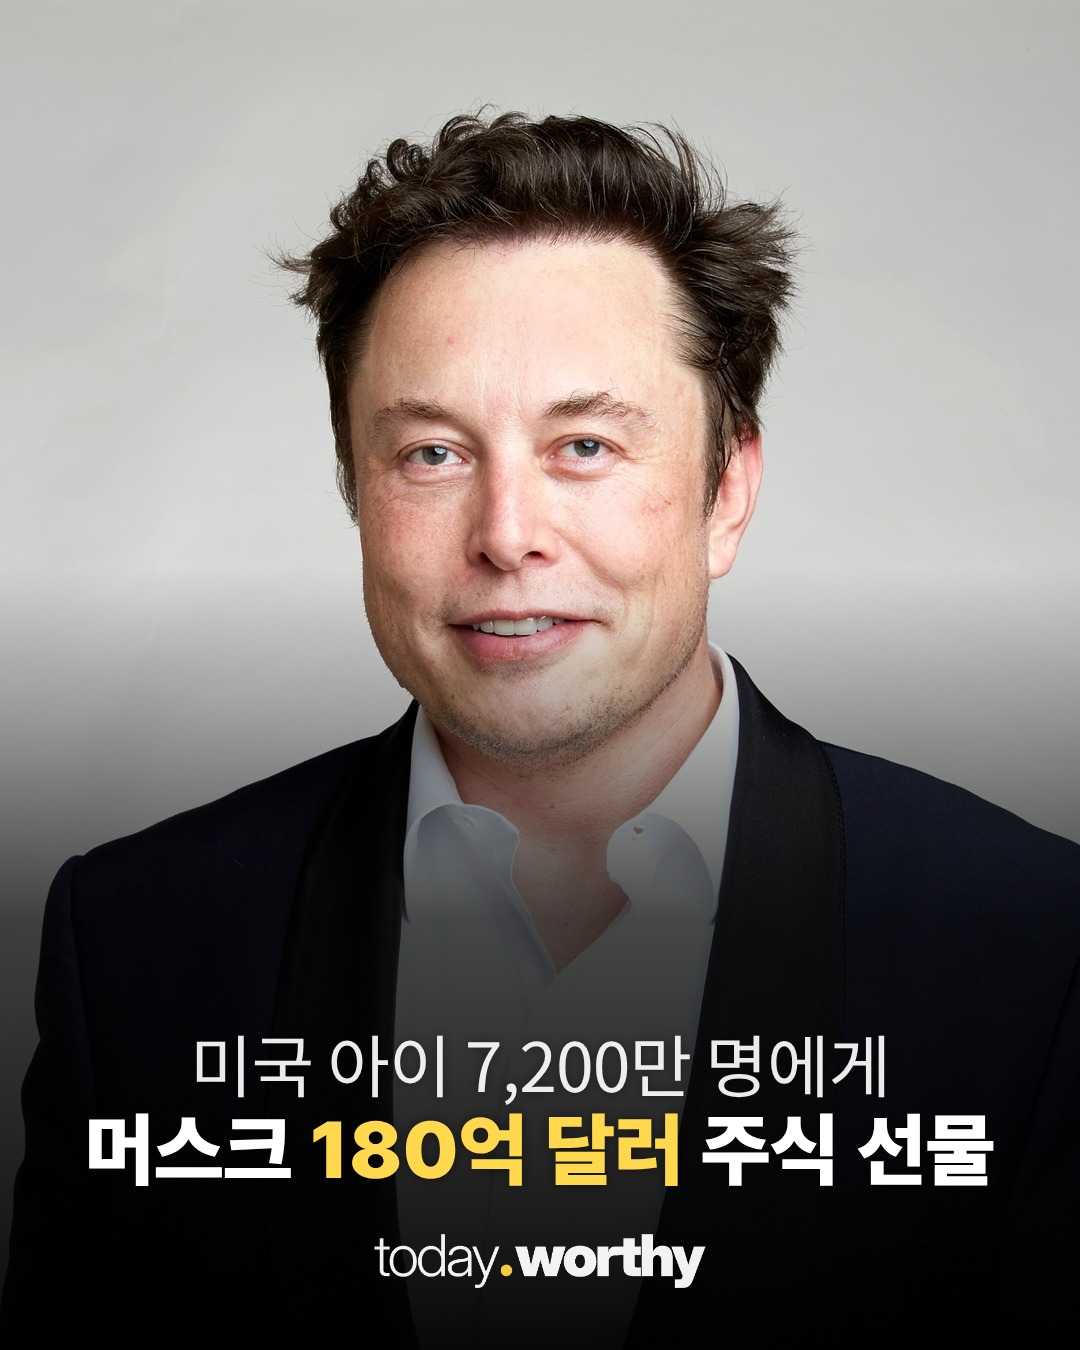
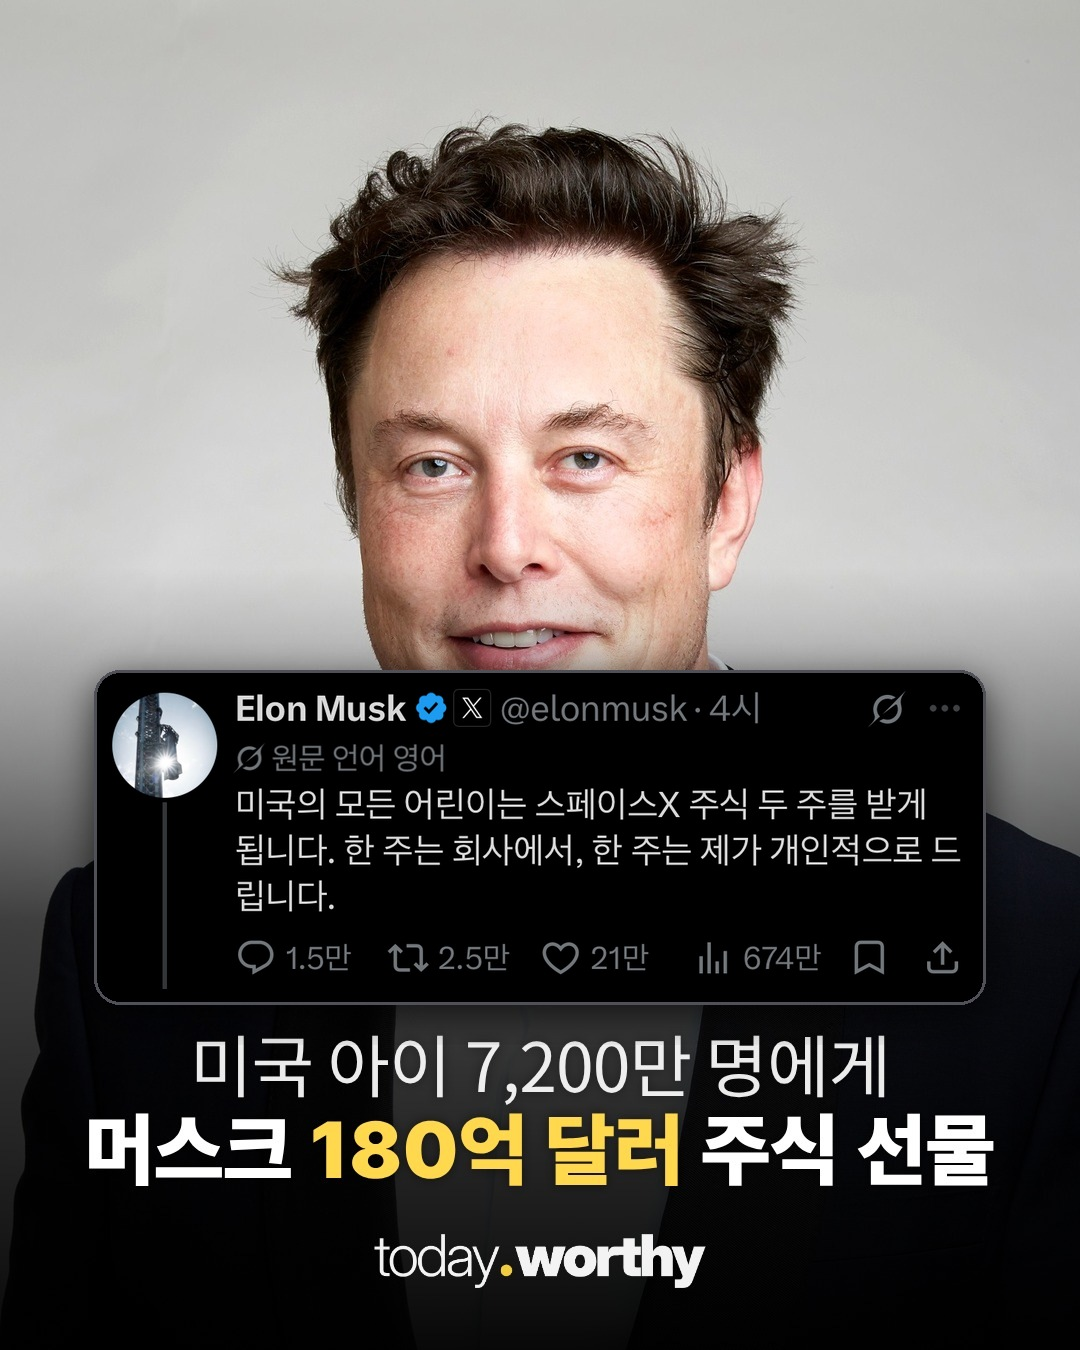
musk: 표지에 트윗 캡처 카드
Claude-Session: https://claude.ai/code/session_01FGsw5S4nGrZdCJo7qBU1wE

diff --git a/media/20261126-musk/make_cover.py b/media/20261126-musk/make_cover.py
@@ -1,0 +1,17 @@
+"""20261126-musk 표지: manual 렌더(01.jpg) 위에 실제 트윗 캡처 카드를 얹는다. manual 다시 돌리면 이것도 다시 실행."""
+from pathlib import Path
+from PIL import Image, ImageOps, ImageDraw, ImageFilter
+D = Path(__file__).parent
+im = Image.open(D / "01.jpg").convert("RGBA")
+cap = Image.open(D / "cand/musk_cap_real.png").convert("RGB")
+w = 860; cap = cap.resize((w, round(cap.height * w / cap.width)), Image.LANCZOS); h = cap.height
+pad = 16; card = Image.new("RGBA", (w + 2 * pad, h + 2 * pad), (0, 0, 0, 0)); d = ImageDraw.Draw(card)
+d.rounded_rectangle((0, 0, card.width - 1, card.height - 1), 26, fill=(0, 0, 0, 255), outline=(80, 80, 88, 255), width=3)
+m = Image.new("L", cap.size, 0); ImageDraw.Draw(m).rounded_rectangle((0, 0, w - 1, h - 1), 14, fill=255)
+card.paste(cap, (pad, pad), m)
+sh = Image.new("RGBA", (card.width + 80, card.height + 80), (0, 0, 0, 0))
+ImageDraw.Draw(sh).rounded_rectangle((40, 50, card.width + 40, card.height + 50), 26, fill=(0, 0, 0, 170)); sh = sh.filter(ImageFilter.GaussianBlur(18))
+x = (im.width - card.width) // 2; y = 670
+im.alpha_composite(sh, (x - 40, y - 40)); im.alpha_composite(card, (x, y))
+im.convert("RGB").save(D / "01.jpg", quality=93)
+print("ok", y + card.height)
